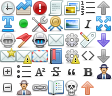
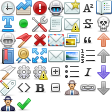
fixed vote arrows placement in deep comment thread + other things
- fixed bug in deep comment thread where the upvote and downvote arrows
  are placed above the actual comment entry block
- use inline block instead of float for subscribers/online users stats.
  thank you holloh, i really should have listen to you more seriously :)
- added style for disabled submission button (may be we should make this
  generic?)
- force our own sans serif for all buttons
- larger font size for collapsed comment
- added more icons into sprite
- changed icon for gilded submission/comment
- added style for codeblock with line number but it's disabled by
  default. set $show-line-num-in-codeblock to 1 to enable it
- unimportant small markdown changes :)

diff --git a/scss/_icons.scss b/scss/_icons.scss
@@ -1,3 +1,4 @@
+// res icons (including markdown editor icons) are set in file _res.scss
 .tn-icon {
    display: inline-block !important;
    background-image: url($icon-image) !important;
@@ -15,10 +16,10 @@
    }
 
    .leavemoderator::before {
-      background-position: -32px -32px;
+      background-position: -48px   0px;
    }
    form.leavecontributor-button::before {
-      background-position: -96px -64px;
+      background-position: 0px -96px;
    }
 }
 
@@ -35,10 +36,10 @@
       }
    }
 
-   &.up, &.up:hover           { background-position: -96px   0px !important; }
-   &.upmod, &.upmod:hover     { background-position: -80px -80px !important; }
-   &.down, &.down:hover       { background-position: -96px -48px !important; }
-   &.downmod, &.downmod:hover { background-position: -96px -32px !important; }
+   &.up, &.up:hover           { background-position: -96px -48px !important; }
+   &.upmod, &.upmod:hover     { background-position: -96px -32px !important; }
+   &.down, &.down:hover       { background-position: -96px -80px !important; }
+   &.downmod, &.downmod:hover { background-position: -96px -64px !important; }
 }
 
 .up,
@@ -54,7 +55,7 @@
       text-indent: -999px;
       background-color: transparent;
       border: none;
-      background-position: -0px -64px;
+      background-position: -48px -64px;
    }
 }
 
@@ -66,13 +67,18 @@
 
 #mail {
    margin-bottom: 2px;
-   &.nohavemail { background-position: -48px -32px; }
-   &.havemail   { background-position:   0px -48px; }
+   &.nohavemail { background-position: -48px -48px; }
+   &.havemail   { background-position: -64px   0px; }
 }
 
 #modmail {
    &.nohavemail { background-position:   0px -32px; }
-   &.havemail   { background-position: -32px -32px; }
+   &.havemail   { background-position: -48px   0px; }
+}
+
+.gilded-icon::before {
+   @extend .tn-icon;
+   background-position: -16px -48px;
 }
 
 .icon-menu {
@@ -96,20 +102,20 @@
    }
 
    .reddit-edit::before          { background-position: -32px -16px; }
-   .reddit-moderators::before    { background-position: -32px -32px; }
-   .reddit-contributors::before  { background-position: -96px -64px; }
+   .reddit-moderators::before    { background-position: -48px   0px; }
+   .reddit-contributors::before  { background-position:   0px -96px; }
    .reddit-traffic::before       { background-position: -16px   0px; }
-   .reddit-modqueue::before      { background-position: -48px   0px; }
+   .reddit-modqueue::before      { background-position: -48px -16px; }
    .reddit-reported::before      { background-position: -16px -32px; }
    .reddit-spam::before          { background-position: -32px   0px; }
-   .reddit-ban::before           { background-position: -64px -80px; }
-   .reddit-flair::before         { background-position: -80px -32px; }
-   .reddit-moderationlog::before { background-position: -48px -48px; }
+   .reddit-ban::before           { background-position: -96px -16px; }
+   .reddit-flair::before         { background-position:   0px -80px; }
+   .reddit-moderationlog::before { background-position:   0px -48px; }
    .reddit-unmoderated::before   { background-position:   0px   0px; }
 
    .moderator-mail::before {
       margin-top: 0;
       margin-left: 0;
-      background-position: -32px -48px;
+      background-position: -48px -32px;
    }
 }

diff --git a/scss/_res.scss b/scss/_res.scss
@@ -25,7 +25,7 @@
 
    .gearIcon {
       @extend .tn-icon;
-      background-position: -64px -32px;
+      background-position: -16px -64px;
       vertical-align: middle;
       opacity: 0.6;
       top: auto !important;
@@ -202,7 +202,7 @@
       &::before {
          top: 4px;
          left: 4px;
-         background-position: -96px -16px;
+         background-position: -32px -48px;
       }
    }
 
@@ -272,15 +272,15 @@
       padding: 2px;
       > a {
          float: left;
-         &:nth-child(1)::before { background-position: -80px -64px; }
-         &:nth-child(2)::before { background-position: -80px -16px; }
-         &:nth-child(3)::before { background-position: -48px -64px; }
-         &:nth-child(4)::before { background-position: -32px -64px; }
-         &:nth-child(5)::before { background-position: -32px -80px; }
-         &:nth-child(6)::before { background-position: -64px -64px; }
-         &:nth-child(7)::before { background-position: -80px -48px; }
-         &:nth-child(8)::before { background-position: -16px -64px; }
-         &:nth-child(9)::before { background-position: -80px   0px; }
+         &:nth-child(1)::before { background-position: -32px -80px; } // bold
+         &:nth-child(2)::before { background-position: -80px -64px; } // italic
+         &:nth-child(3)::before { background-position: -80px -16px; } // strikethrough
+         &:nth-child(4)::before { background-position: -80px   0px; } // superscript
+         &:nth-child(5)::before { background-position: -80px -80px; } // link
+         &:nth-child(6)::before { background-position: -80px -32px; } // quote
+         &:nth-child(7)::before { background-position: -16px -80px; } // codeblock
+         &:nth-child(8)::before { background-position: -64px -64px; } // ul
+         &:nth-child(9)::before { background-position: -80px -48px; } // ol
       }
    }
 

diff --git a/scss/_markdown.scss b/scss/_markdown.scss
@@ -26,34 +26,74 @@
    }
 
    p {
-      margin-bottom: 1em;
+      margin: 0.5em 0em;
    }
 
    blockquote {
-      border-left: solid 4px rgba(0, 0, 0, 0.4);
+      border-left: solid 3px $quote-border-color;
       padding: 0.2em 0.5em;
       background: $quote-bg;
+      color: $quote-fg;
       margin: 0.4em;
    }
 
-   pre,
-   code {
-      color: $code-fg;
-      background: $code-bg;
+   code,
+   pre {
+      font-family: $monospace;
    }
 
    code {
-      @include rounded(3px);
-      display: inline-block;
-      padding: 0em 0.5em;
-      border: solid 1px rgba(0, 0, 0, 0.3);
+      color: $inline-code-fg;
    }
 
    pre {
       margin: 1em 0em;
-      code {
-         padding: 0.4em 1em;
+      padding: 0px;
+
+      > code {
+         padding: 7px;
          display: block;
+         background: $codeblock-bg;
+         color: $codeblock-fg;
+         overflow: auto;
+      }
+   }
+
+   @if $show-line-num-in-codeblock == 0 {
+      pre {
+         > code {
+            border: solid 1px $codeblock-border-color;
+            @include rounded(3px);
+         }
+      }
+   } @else {
+      pre {
+         position: relative;
+         background: $line-num-bg;
+         border: solid 1px $line-num-bg;
+         @include rounded(3px);
+
+         > code {
+            margin-left: 2.8em;
+         }
+
+         $nums: '';
+         @for $i from 1 to 999 {
+            $nums: '#{$nums}#{$i}  ';
+         }
+
+         &::before {
+            content: $nums;
+            position: absolute;
+            color: $line-num-fg;
+            left: 0;
+            top: 7px;
+            bottom: 7px;
+            width: 2.3em;
+            white-space: pre-wrap;
+            direction: rtl;
+            overflow: hidden;
+         }
       }
    }
 

diff --git a/scss/_variables.scss b/scss/_variables.scss
@@ -28,6 +28,7 @@ $icon-image: '%%icons%%';
 
 $sans-serif: 'Liberation Sans', Arial, sans-serif;
 $serif: 'Liberation Serif', 'Times New Roman', sans-serif;
+$monospace: 'DejaVu Sans Mono', 'Droid Sans Mono', 'Inconsolata', Monaco, monospace;
 
 $main-bg: $gray;
 $main-fg: $black;
@@ -35,22 +36,27 @@ $main-fg: $black;
 $text-bg: $white;
 $text-fg: $main-fg;
 $text-border-color: darken($gray, 20%);
-$quote-bg: darken($text-bg, 5%);
+$quote-bg: darken($text-bg, 6%);
 $quote-fg: $text-fg;
-$code-bg: lighten($bright-yellow, 6%);
-$code-fg: $text-fg;
+$quote-border-color: darken($text-border-color, 10%);
+$codeblock-bg: $quote-bg;
+$codeblock-fg: $text-fg;
+$codeblock-border-color: $quote-border-color;
+$inline-code-fg: darken($orange, 5%);
+$line-num-bg: $codeblock-border-color;
+$line-num-fg: $white;
 
 $link-fg: darken($blue, 7%);
 $link-fg-visited: darken($violet, 7%);
 $sticky-link-fg: darken($green, 10%);
 
 $header-bg: $black;
-$header-fg: $gray;
+$header-fg: darken($gray, 14%);
 $page-title-fg: darken($gray, 20%);
 
 $menu-bar-bg: $dark-brown;
 $menu-bar-fg: darken($gray, 30%);
-$sr-header-fg: darken($gray, 50%);
+$sr-header-fg: darken($gray, 40%);
 $sr-header-bg: rgba(0, 0, 0, 0.5);
 $sr-dropdown-bg: $black;
 $sr-dropdown-fg: lighten($gray, 30%);
@@ -67,7 +73,7 @@ $nsfw-tag-bg: $orange;
 $nsfw-tag-fg: $white;
 $sticky-tag-bg: $green;
 $sticky-tag-fg: $white;
-$mod-tag-fg: darken($green, 9%);
+$mod-tag-fg: darken($green, 5%);
 $admin-tag-fg: $red;
 $score-fg: darken($gray, 40%);
 $default-nsfw-thumb-bg: rgba($magenta, 0.5);
@@ -111,3 +117,6 @@ $res-night-fg: $gray;
 $res-active-element-color: rgba($orange, 0.5);
 $res-popup-bg: #5F99CF;
 
+
+// set this to 1 if you want to have line number at the left of codeblock
+$show-line-num-in-codeblock: 0;

diff --git a/scss/_buttons.scss b/scss/_buttons.scss
@@ -1,5 +1,6 @@
 .tn-button {
    color: $button-fg;
+   font-family: $sans-serif;
    padding: 2px 8px;
    width: auto;
    min-width: 4em;
@@ -78,16 +79,12 @@
          &::before {
             vertical-align: middle;
          }
-
-         &:active {
-            @include shadow(inset 0px 2px 2px rgba(0, 0, 0, 0.5), 0px 1px 0px rgba(255, 255, 255, 0.4));
-         }
       }
 
       &.add {
          color: $subscribe-fg;
-         background: $subscribe-bg;
-         border-bottom: solid 2px darken($subscribe-bg, 8%);
+         @include linear-gradient(top, $subscribe-bg, darken($subscribe-bg, 5%));
+         border-bottom: solid 2px darken($subscribe-bg, 13%);
       }
 
       &.remove {
@@ -112,6 +109,13 @@
       margin-right: 0px;
       padding: 5px 8px;
    }
+}
+
+.submit.disabled > .morelink > a {
+   color: rgba(0, 0, 0, 0.4);
+   text-shadow: 0px 1px 1px rgba(255, 255, 255, 0.5);
+   @include shadow(0px 1px 0px rgba(255, 255, 255, 0.8), inset 0px 1px 2px rgba(0, 0, 0, 0.2));
+   @include linear-gradient(top, darken($main-bg, 12%), darken($main-bg, 19%));
 }
 
 button {

diff --git a/scss/_list.scss b/scss/_list.scss
@@ -79,14 +79,9 @@
    .usertext {
       .md {
          @include linear-gradient(top, $text-bg, darken($text-bg, 3%));
-         //background: $text-bg;
          color: $text-fg;
          padding: 5px 20px;
          border: none;
-         //border-left: solid 3px $text-border-color;
-         //border-right: none;
-         //border-bottom: none;
-         //border-top: none;
          @include shadow(0px 1px 2px rgba(0, 0, 0, 0.2));
          @include rounded(3px);
       }
@@ -284,3 +279,4 @@
       }
    }
 }
+

diff --git a/scss/_comments.scss b/scss/_comments.scss
@@ -199,11 +199,19 @@
 
    .entry {
       padding: 0px;
-      display: inline-block;
+      .noncollapsed {
+         display: inline-block;
+      }
+
+      .score,
+      .collapsed {
+         font-size: 13px;
+      }
+
       .usertext {
          margin: 8px 2px 0px 2px;
          padding: 3px;
-         min-width: 10em;
+         //min-width: 20em;
          position: relative;
          @include linear-gradient(top, $comment-bg, darken($comment-bg, 3%));
          @include rounded(3px);

diff --git a/scss/_sidebar.scss b/scss/_sidebar.scss
@@ -53,6 +53,8 @@
 .subscribers,
 .users-online {
    @extend .tn-engraved-box;
+   display: inline-block;
+   vertical-align: top;
    width: 139px;
    white-space: nowrap;
    overflow: hidden;
@@ -76,7 +78,6 @@
 }
 
 .subscribers {
-   float: left;
    margin-right: 1px;
    @include rounded(5px 0px 0px 5px);
 
@@ -86,7 +87,6 @@
 }
 
 .users-online {
-   float: right;
    @include rounded(0px 5px 5px 0px);
 
    &::before {
